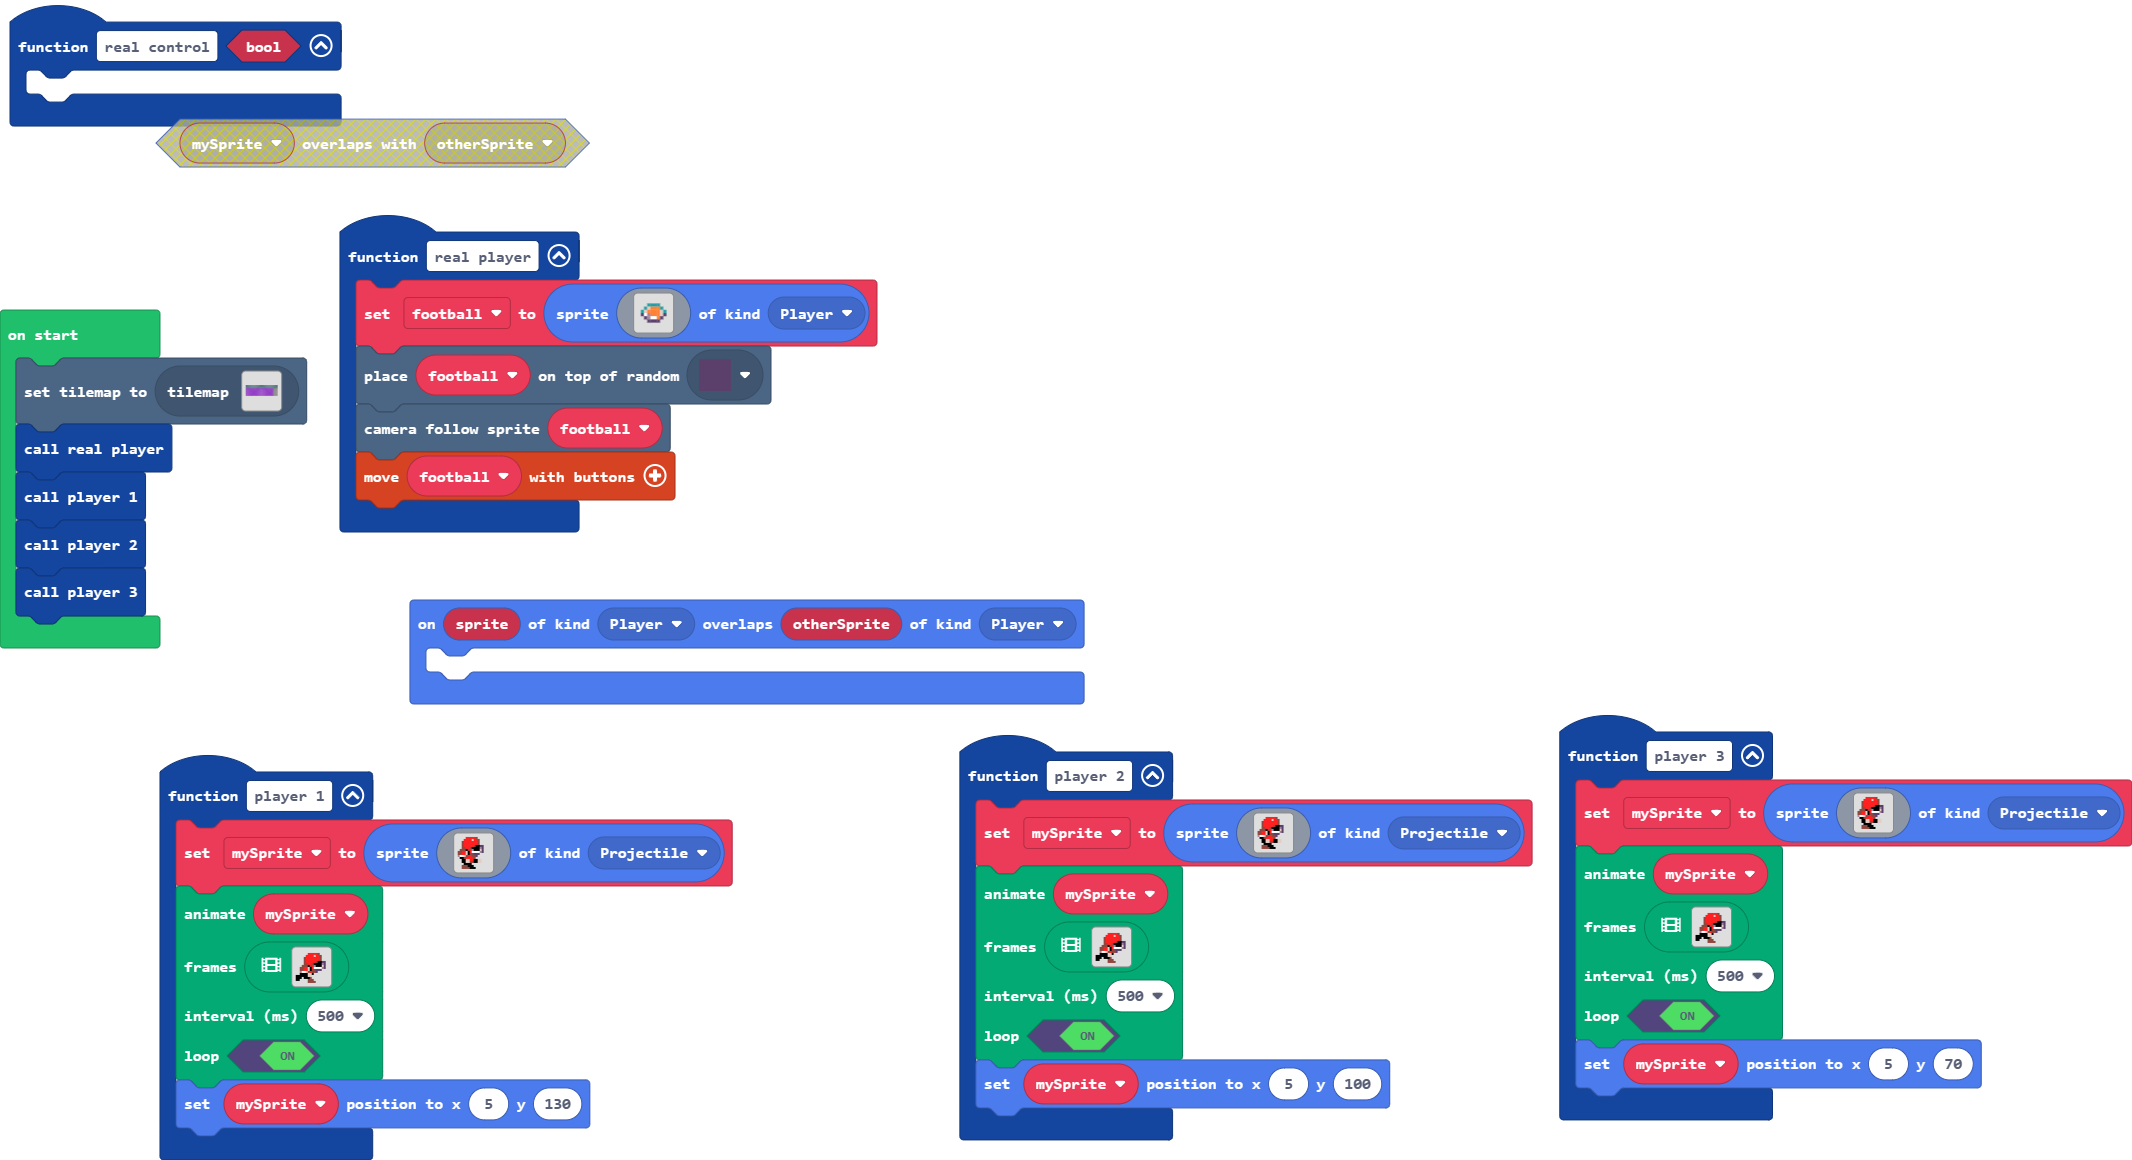
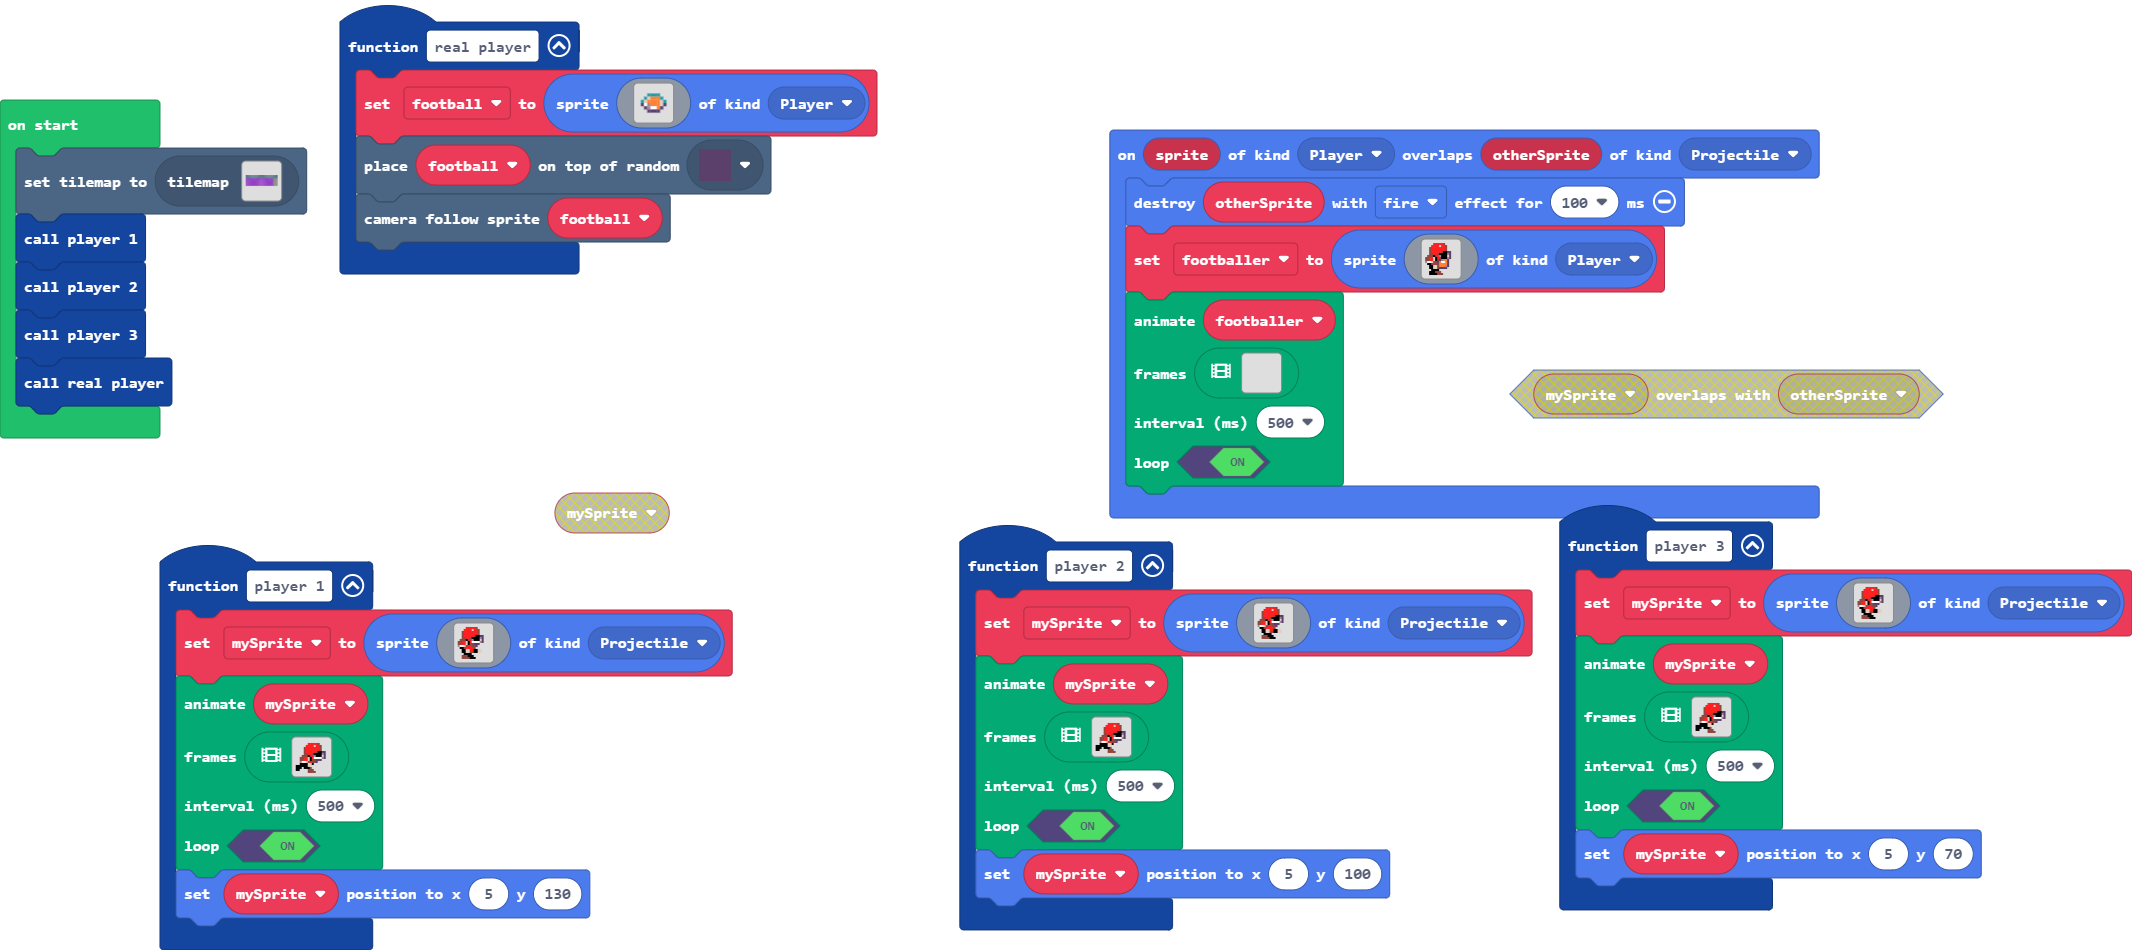
Update main.blocks, main.ts

diff --git a/main.ts b/main.ts
@@ -25,9 +25,6 @@ function player_1 () {
     )
     mySprite.setPosition(5, 130)
 }
-function real_control (bool: boolean) {
-	
-}
 function player_2 () {
     mySprite = sprites.create(img`
         . . . . 2 2 2 2 2 e . . . . . . 
@@ -55,6 +52,50 @@ function player_2 () {
     )
     mySprite.setPosition(5, 100)
 }
+sprites.onOverlap(SpriteKind.Player, SpriteKind.Projectile, function (sprite, otherSprite) {
+    sprites.destroy(otherSprite, effects.fire, 100)
+    footballer = sprites.create(img`
+        . . . . 2 2 2 2 2 e . . . . . . 
+        . . . 2 2 2 2 d 2 2 e . . . . . 
+        . . e 2 2 2 2 2 2 2 e . . . . . 
+        . . e 2 2 2 2 2 2 2 e . . . . . 
+        . . e 2 2 2 2 2 e f f c c . . . 
+        . . e e 2 2 e f f f f b c . . . 
+        . e e e f e 2 b f f f d c . . . 
+        e e 2 2 d f 2 e f f f b c . . . 
+        e e 2 2 d f e c b 4 4 c . . . . 
+        b 1 1 d e e c 4 1 1 4 c . . . . 
+        . f f e e e e 4 4 4 4 c . . . . 
+        . . f f d d e 4 4 4 b c . . . . 
+        . . f f d d e c c c c d . . . . 
+        . . . f f f f . . . . . . . . . 
+        . . f f f e e e . . . . . . . . 
+        . . f f f f e e e . . . . . . . 
+        `, SpriteKind.Player)
+    animation.runImageAnimation(
+    footballer,
+    [img`
+        . . . . . . . . . . . . . . . . 
+        . . . . . . . . . . . . . . . . 
+        . . . . . . . . . . . . . . . . 
+        . . . . . . . . . . . . . . . . 
+        . . . . . . . . . . . . . . . . 
+        . . . . . . . . . . . . . . . . 
+        . . . . . . . . . . . . . . . . 
+        . . . . . . . . . . . . . . . . 
+        . . . . . . . . . . . . . . . . 
+        . . . . . . . . . . . . . . . . 
+        . . . . . . . . . . . . . . . . 
+        . . . . . . . . . . . . . . . . 
+        . . . . . . . . . . . . . . . . 
+        . . . . . . . . . . . . . . . . 
+        . . . . . . . . . . . . . . . . 
+        . . . . . . . . . . . . . . . . 
+        `],
+    500,
+    true
+    )
+})
 function player_3 () {
     mySprite = sprites.create(img`
         . . . . 2 2 2 2 2 e . . . . . . 
@@ -82,9 +123,6 @@ function player_3 () {
     )
     mySprite.setPosition(5, 70)
 }
-sprites.onOverlap(SpriteKind.Player, SpriteKind.Player, function (sprite, otherSprite) {
-	
-})
 function real_player () {
     football = sprites.create(img`
         . . . . . . . . . . 
@@ -100,12 +138,12 @@ function real_player () {
         `, SpriteKind.Player)
     tiles.placeOnRandomTile(football, assets.tile`myTile3`)
     scene.cameraFollowSprite(football)
-    controller.moveSprite(football)
 }
 let football: Sprite = null
+let footballer: Sprite = null
 let mySprite: Sprite = null
 tiles.setCurrentTilemap(tilemap`level`)
-real_player()
 player_1()
 player_2()
 player_3()
+real_player()
